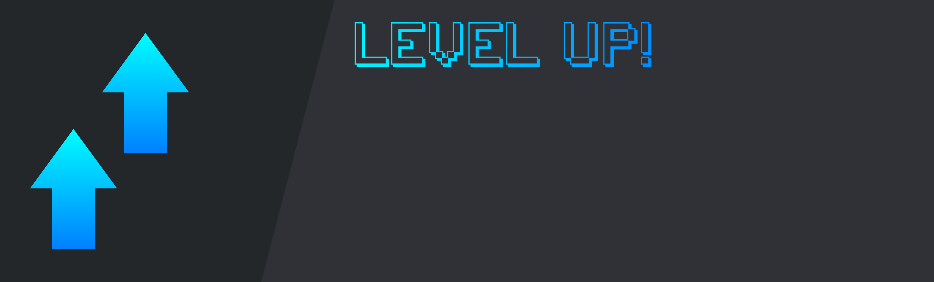
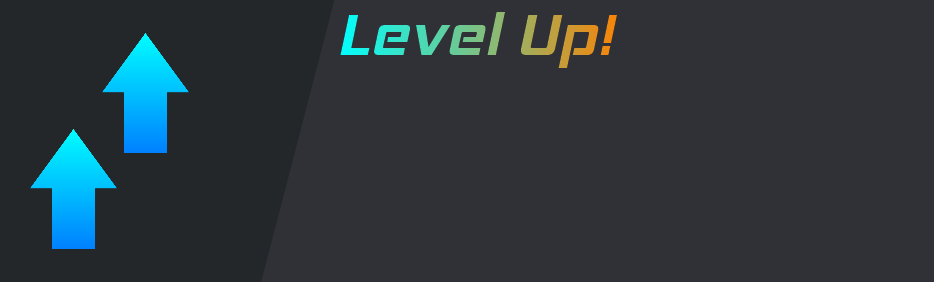
Improved style of experience cards

Changed region(s): [[0.3415, 0.0284, 0.7141, 0.2553]]

diff --git a/lib/experience/gen_lvl_up_card.py b/lib/experience/gen_lvl_up_card.py
@@ -26,13 +26,13 @@ async def generate_lvl_up_card(stats: ExperienceStats) -> File:
 
     texts: list[Text] = [
         Text(
-            text="you are now level ",
+            text="you are now level",
             font=Font(path="./assets/font.ttf", size=35),
             color=(255, 255, 255)
         ),
         Text(
             text=str(stats.level),
-            font=Font(path="./assets/BACKTO1982.ttf", size=35),
+            font=Font(path="./assets/font.ttf", size=35),
             color=(0, 255, 255)
         ),
         Text(

diff --git a/lib/experience/gen_leaderboard.py b/lib/experience/gen_leaderboard.py
@@ -38,7 +38,7 @@ async def generate_leaderboard_card(stats: list[ExperienceStats]) -> list[File]:
     editor: Editor = Editor(Image.open("./assets/leaderboard.png"))
     editor.text(
         text=stats[0].member.guild.name,
-        position=(42, 90),
+        position=(40, 75),
         color=(255, 255, 255),
         font=Font.poppins(variant="italic", size=25)
     )
